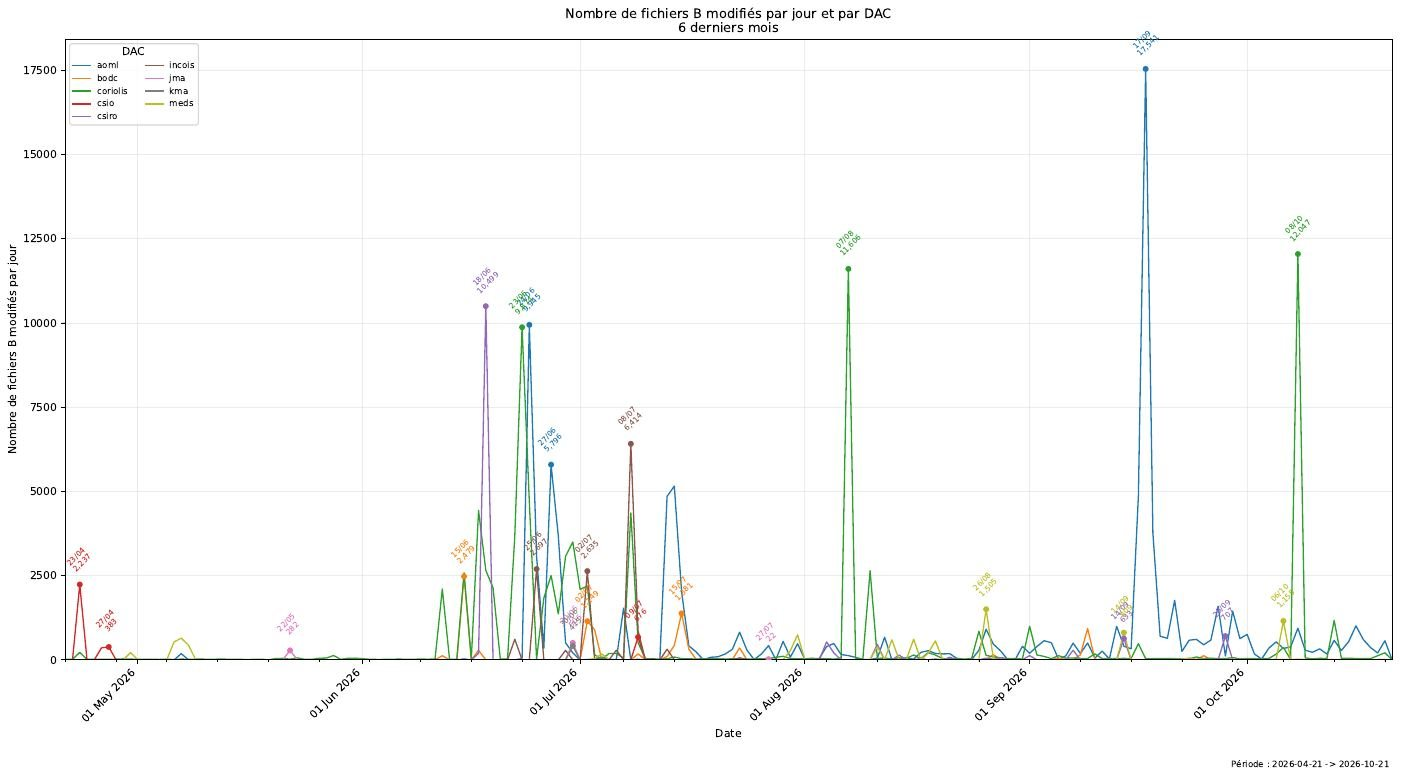
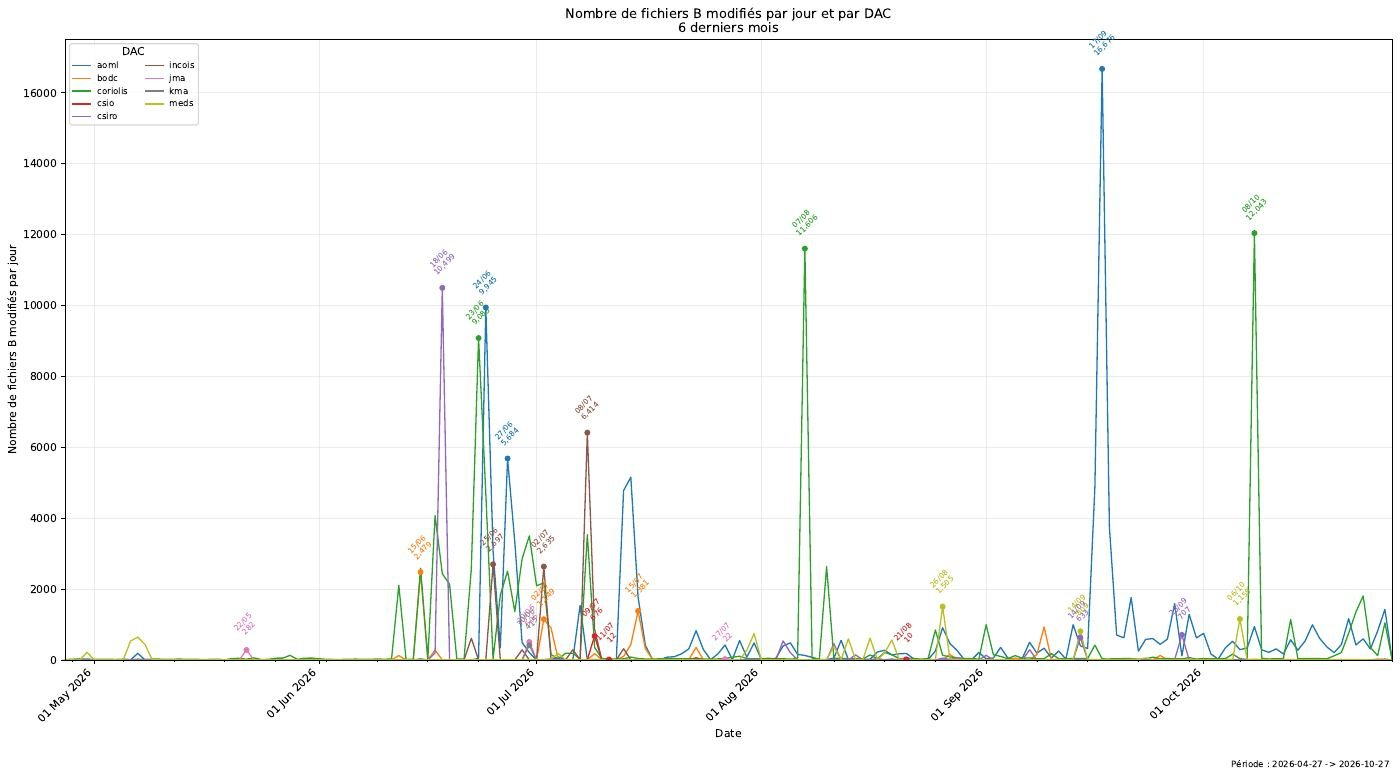
Met à jour la page des projets au 27 octobre
- Nouveau projet STAT_RATIOMETRIE : radiomètres comparés à un modèle
  par ciel clair, avec le mode et le P90 du rapport par canal.
- Étude métrique V2 : trois études avec leurs pages de graphiques, la
  synthèse du fichier du 27 octobre, une courbe du nombre de profils
  par fichier quotidien, et des figures du 27 octobre.
- SOCA CLIM Light Argo repasse « Actif » ; totaux et dates mis à jour.

Claude-Session: https://claude.ai/code/session_01E8CWNMVsvwy1KFHLaAn6PK

diff --git a/projets/index.html b/projets/index.html
@@ -86,6 +86,7 @@ h1 { font-family: var(--display); font-weight: 700; font-size: clamp(2rem, 5vw, 
 .etat.ok::before { background: var(--ok); }
 .etat.run::before { background: transparent; border: 2px solid var(--run); border-right-color: transparent; width: 11px; height: 11px; }
 .etat.archive::before { background: transparent; border: 2px solid var(--idle); }
+.etat.nouveau::before { background: var(--accent); box-shadow: 0 0 0 3px var(--accent-soft); }
 .legende-etat { margin: 0 0 40px; font-size: 0.88rem; color: var(--muted); display: flex; flex-wrap: wrap; gap: 4px 18px; }
 .legende-etat .etat { font-weight: 400; }
 
@@ -147,14 +148,14 @@ figcaption strong { color: var(--ink); font-weight: 600; }
 .dessin { width: 100%; min-height: 40px; }
 .dessin svg { display: block; width: 100%; height: auto; overflow: visible; }
 .dessin text { font-family: var(--sans); }
-.dessin .chiffre { font-family: var(--mono); font-size: 11.5px; fill: var(--muted); }
+.dessin .chiffre { font-family: var(--mono); font-size: 11.5px; fill: var(--muted); paint-order: stroke; stroke: var(--bg); stroke-width: 4px; stroke-linejoin: round; }
 .dessin .cat { font-size: 13px; fill: var(--ink); }
 .dessin .souscat { font-size: 11.5px; fill: var(--muted); }
 .dessin .axe { font-size: 11px; fill: var(--muted); font-family: var(--mono); }
 .dessin .grille { stroke: var(--line); stroke-width: 1; }
 .dessin .ref { stroke: var(--muted); stroke-width: 1.5; }
 .dessin .zone { fill: transparent; cursor: default; }
-.dessin path, .dessin text, .dessin line { pointer-events: none; }
+.dessin path, .dessin text, .dessin line, .dessin circle { pointer-events: none; }
 .dessin .zone:hover + .barre, .dessin .zone:focus + .barre { filter: brightness(1.15); }
 .dessin .zone:focus { outline: none; }
 .dessin .zone:focus-visible { stroke: var(--accent); stroke-width: 2; }
@@ -225,7 +226,7 @@ dialog#visio::backdrop { background: rgba(8, 18, 18, 0.72); }
 <header class="tete">
   <p class="surtitre">VM oao2022 · Mac · GitHub antoine250</p>
   <h1>Projets BGC-Argo</h1>
-  <p class="chapo">Huit études sur les capteurs bio-optiques des flotteurs BGC-Argo et du profileur CIDRE : chlorophylle, rétrodiffusion à 700 nm, lumière. <strong>1&#8239;046 pages de graphiques</strong> en tout ; chaque projet montre ses figures principales et renvoie vers sa page complète. État au 26 octobre 2026.</p>
+  <p class="chapo">Neuf études sur les capteurs bio-optiques des flotteurs BGC-Argo et du profileur CIDRE : chlorophylle, rétrodiffusion à 700 nm, lumière. <strong>1&#8239;189 pages de graphiques</strong> en tout ; chaque projet montre ses figures principales et renvoie vers sa page complète. État au 27 octobre 2026.</p>
 </header>
 
 <section aria-labelledby="titre-etat">
@@ -245,7 +246,7 @@ dialog#visio::backdrop { background: rgba(8, 18, 18, 0.72); }
     <li class="ligne">
       <div class="l-titre"><a href="#metrique">Étude métrique V2</a><span class="mesure">Suivi de la base, CHLA et BBP700 par capteur</span></div>
       <span class="etat ok">Actif</span>
-      <div class="l-meta"><span>VM · GitHub</span><span class="nb">404 pages</span><span>23 oct. 2026</span></div>
+      <div class="l-meta"><span>VM · GitHub</span><span class="nb">509 pages</span><span>27 oct. 2026</span></div>
     </li>
     <li class="ligne">
       <div class="l-titre"><a href="#oc5">CHLA / OC5 jour – nuit</a><span class="mesure">Flotteur contre satellite</span></div>
@@ -254,8 +255,13 @@ dialog#visio::backdrop { background: rgba(8, 18, 18, 0.72); }
     </li>
     <li class="ligne">
       <div class="l-titre"><a href="#soca">SOCA CLIM Light Argo</a><span class="mesure">Profils de lumière PAR et Ed</span></div>
-      <span class="etat run">En calcul</span>
+      <span class="etat ok">Actif</span>
       <div class="l-meta"><span>VM</span><span class="nb">106 graphiques</span><span>23 oct. 2026</span></div>
+    </li>
+    <li class="ligne">
+      <div class="l-titre"><a href="#ratiometrie">STAT_RATIOMETRIE</a><span class="mesure">Radiomètres face à un modèle par ciel clair</span></div>
+      <span class="etat nouveau">Nouveau</span>
+      <div class="l-meta"><span>Serveur</span><span class="nb">38 pages</span><span>27 oct. 2026</span></div>
     </li>
     <li class="groupe-ligne">Sur le Mac</li>
     <li class="ligne">
@@ -277,7 +283,7 @@ dialog#visio::backdrop { background: rgba(8, 18, 18, 0.72); }
   </ul>
   <p class="legende-etat">
     <span class="etat ok">Actif : session Claude ouverte sur la VM</span>
-    <span class="etat run">En calcul : une chaîne tourne</span>
+    <span class="etat nouveau">Nouveau : apparu depuis la mise à jour précédente</span>
     <span class="etat archive">Archivé : session terminée</span>
     <span>Date : dernière mise à jour des graphiques</span>
   </p>
@@ -285,7 +291,7 @@ dialog#visio::backdrop { background: rgba(8, 18, 18, 0.72); }
 
 <section class="groupe" aria-labelledby="g-vm">
   <h2 id="g-vm">Sur la VM oao2022</h2>
-  <p>Cinq sessions Claude tournent sur le serveur, chacune avec sa page de graphiques.</p>
+  <p>Six projets sur le serveur, chacun avec ses pages de graphiques.</p>
 
   <article class="projet" id="chla435" data-galerie="https://claude.ai/artifact/VeyUFmpXRrTi1sqrMFvcbu">
     <div class="p-texte">
@@ -359,31 +365,40 @@ dialog#visio::backdrop { background: rgba(8, 18, 18, 0.72); }
   <article class="projet" id="metrique" data-galerie="https://claude.ai/artifact/CQou6hnrZ72suKwQXZ53zz">
     <div class="p-texte">
       <p class="p-tags"><span class="etat ok">Actif</span><span class="ou">VM oao2022 · GitHub</span></p>
-      <h3>Étude métrique V2<span class="mesure">Suivi de la base et comparaison des capteurs CHLA et BBP700</span></h3>
-      <p class="p-desc">Deux volets. Le suivi quotidien de la base BGC-Argo : fichiers B modifiés par DAC, évolution des paramètres jour après jour, CHLA intégrée 0-150 m. La comparaison des capteurs : CHLA des ECO_2, ECO_3 et MCOMS face au satellite OC5, avec triple collocation, et BBP700 des FLBB, triplets et MCOMS face à la climatologie SOCA, en surface (0-10 m) et en profondeur (900-950 m).</p>
+      <h3>Étude métrique V2<span class="mesure">Le fichier métrique quotidien et les trois études qui le lisent</span></h3>
+      <p class="p-desc">Chaque nuit, l'étude produit un fichier de métriques sur tous les profils BGC-Argo (<code>/data3/ETUDE_METRIQUE_V2</code>). Depuis le 26 octobre, trois études le lisent, chacune avec sa page de graphiques : le suivi quotidien de la base (fichiers B modifiés par DAC, évolution des paramètres, CHLA intégrée 0-150 m) ; la CHLA des ECO_2, ECO_3 et MCOMS face au satellite OC5, avec triple collocation ; le BBP700 des FLBB, triplets et MCOMS face à la climatologie SOCA, en surface et à 900-950 m.</p>
       <dl class="chiffres">
-        <div><dt>Graphiques</dt><dd>26</dd></div>
-        <div><dt>Pages</dt><dd>404</dd></div>
-        <div><dt>Capteurs comparés</dt><dd>3 <small>par paramètre</small></dd></div>
-        <div><dt>Données</dt><dd>13 oct. <small>2026</small></dd></div>
+        <div><dt>Profils, fichier du 27 oct.</dt><dd>191&#8239;768</dd></div>
+        <div><dt>Flotteurs</dt><dd>1&#8239;522</dd></div>
+        <div><dt>Profils avec une CHLA OC5</dt><dd>159&#8239;589</dd></div>
+        <div><dt>Graphiques</dt><dd>26 <small>509 pages</small></dd></div>
       </dl>
+      <div class="graphe" id="g-metrique">
+        <h4>Profils dans le fichier métrique quotidien</h4>
+        <p class="sous">136 fichiers, du 28 mai au 27 octobre 2026 ; les segments droits couvrent les jours sans fichier.</p>
+        <div class="dessin"></div>
+      </div>
+      <p class="p-note">Le 27 octobre, le nombre de profils avec une CHLA OC5 est passé de 143&#8239;500 à 159&#8239;589.</p>
       <div class="liens">
-        <a class="bouton principal" href="https://claude.ai/artifact/CQou6hnrZ72suKwQXZ53zz" target="_blank" rel="noopener">Ouvrir les 26 graphiques</a>
+        <a class="bouton principal" href="https://claude.ai/artifact/5mcDQY8bPgqWs46afYyF8H" target="_blank" rel="noopener">Synthèse du fichier</a>
+        <a class="bouton" href="https://claude.ai/artifact/Fh22XT616xihE1MCWTW6Rv" target="_blank" rel="noopener">Suivi de la base · 62 p.</a>
+        <a class="bouton" href="https://claude.ai/artifact/PJrDCLZt8fciG6NTXHJxTx" target="_blank" rel="noopener">CHLA / OC5 · 154 p.</a>
+        <a class="bouton" href="https://claude.ai/artifact/QRzdbm9R412nJHgWJRAEhP" target="_blank" rel="noopener">BBP700 / SOCA · 293 p.</a>
         <a class="bouton" href="https://github.com/antoine250/ETUDE_METRIQUE_V2" target="_blank" rel="noopener">Dépôt GitHub</a>
       </div>
     </div>
     <div class="p-figures">
       <figure>
-        <button class="vignette" type="button" data-note="Facteur d'erreur de chaque capteur (ECO_2, ECO_3, MCOMS), année par année et en cumulé. Plus proche de 1 : meilleure précision ; pointillé : valeur idéale. CSV du 13 octobre 2026."><img src="img/metrique-1.jpg" width="1400" height="728" alt="Triple collocation des trois capteurs de chlorophylle" loading="lazy"></button>
+        <button class="vignette" type="button" data-note="Facteur d'erreur de chaque capteur (ECO_2, ECO_3, MCOMS), année par année et en cumulé. Plus proche de 1 : meilleure précision ; pointillé : valeur idéale. CSV du 27 octobre 2026."><img src="img/metrique-1.jpg" width="1400" height="728" alt="Triple collocation des trois capteurs de chlorophylle" loading="lazy"></button>
         <figcaption><strong>Triple collocation ECO_2 / ECO_3 / MCOMS</strong></figcaption>
       </figure>
       <div class="petites">
         <figure>
-          <button class="vignette" type="button" data-note="Nombre de fichiers B modifiés par jour et par DAC, sur les 6 mois jusqu'au 21 octobre 2026."><img src="img/metrique-2.jpg" width="1401" height="778" alt="Nombre de fichiers B modifiés par jour et par DAC" loading="lazy"></button>
+          <button class="vignette" type="button" data-note="Nombre de fichiers B modifiés par jour et par DAC, sur les 6 mois jusqu'au 27 octobre 2026."><img src="img/metrique-2.jpg" width="1400" height="778" alt="Nombre de fichiers B modifiés par jour et par DAC" loading="lazy"></button>
           <figcaption>Fichiers B modifiés par DAC</figcaption>
         </figure>
         <figure>
-          <button class="vignette" type="button" data-note="Localisation des matchups BBP700 médiane 900-950 m, dans les zones et périodes communes aux FLBB, triplets et MCOMS."><img src="img/metrique-3.jpg" width="1400" height="850" alt="Carte des matchups BBP700 entre 900 et 950 m" loading="lazy"></button>
+          <button class="vignette" type="button" data-note="Localisation des matchups BBP700 médiane 900-950 m, dans les zones et périodes communes aux FLBB, triplets et MCOMS. CSV du 27 octobre 2026."><img src="img/metrique-3.jpg" width="1400" height="850" alt="Carte des matchups BBP700 entre 900 et 950 m" loading="lazy"></button>
           <figcaption>Matchups BBP700 à 900-950 m</figcaption>
         </figure>
       </div>
@@ -423,7 +438,7 @@ dialog#visio::backdrop { background: rgba(8, 18, 18, 0.72); }
 
   <article class="projet" id="soca" data-galerie="https://claude.ai/artifact/SubBQHCvpD9kHn8tr6vQVr">
     <div class="p-texte">
-      <p class="p-tags"><span class="etat run">En calcul</span><span class="ou">VM oao2022</span></p>
+      <p class="p-tags"><span class="etat ok">Actif</span><span class="ou">VM oao2022</span></p>
       <h3>SOCA CLIM Light Argo<span class="mesure">Profils de lumière PAR, Ed380, Ed412 et Ed490</span></h3>
       <p class="p-desc">Chaîne quotidienne sur la VM (<code>run_pipeline.sh</code>, lancée par cron chaque jour à 12 h). Pour chaque profil BGC-Argo avec chlorophylle, elle produit un profil de lumière climatologique (CLIM) et un profil SOCA, à comparer avec ce que mesure le flotteur. Les PDF par flotteur sont servis par le site web de la VM, dans <code>/var/www/html/bioargo/</code>.</p>
       <dl class="chiffres">
@@ -432,7 +447,7 @@ dialog#visio::backdrop { background: rgba(8, 18, 18, 0.72); }
         <div><dt>Avec un profil SOCA rempli</dt><dd>108&#8239;142</dd></div>
         <div><dt>Flotteurs</dt><dd>1&#8239;526</dd></div>
       </dl>
-      <p class="p-note">Pas de SOCA après février 2026 : il n'y a plus de matchups ACRI. La chaîne a été relancée le 26 octobre à 15 h 19 ; la session doit donner le nouveau nombre de profils SOCA. Dernier run complet : 4 h 01.</p>
+      <p class="p-note">Pas de SOCA après février 2026 : il n'y a plus de matchups ACRI. Dernier run complet : 4 h 01, le 23 octobre.</p>
       <div class="liens">
         <a class="bouton principal" href="https://claude.ai/artifact/SubBQHCvpD9kHn8tr6vQVr" target="_blank" rel="noopener">Ouvrir les 106 graphiques</a>
         <a class="bouton" href="https://claude.ai/artifact/QTPrF1Qn6P3u3YFFb4jbF4" target="_blank" rel="noopener">Tableau de bord</a>
@@ -451,6 +466,43 @@ dialog#visio::backdrop { background: rgba(8, 18, 18, 0.72); }
         <figure>
           <button class="vignette" type="button" data-note="Premier cycle du flotteur 1902493. À gauche : mesuré par le flotteur (vert), climatologie (rouge), SOCA (bleu) ; à droite : climatologie et SOCA à midi local."><img src="img/soca-3.jpg" width="864" height="1152" alt="Profils de lumière du flotteur 1902493, cycle 1" loading="lazy"></button>
           <figcaption>WMO 1902493, cycle 1</figcaption>
+        </figure>
+      </div>
+    </div>
+  </article>
+
+  <article class="projet" id="ratiometrie" data-galerie="https://claude.ai/artifact/HyYfzFXPcbYqjjewMZZPCx">
+    <div class="p-texte">
+      <p class="p-tags"><span class="etat nouveau">Nouveau</span><span class="ou">Serveur · /data1/GDAC</span></p>
+      <h3>STAT_RATIOMETRIE<span class="mesure">Les radiomètres des flotteurs face à un modèle par ciel clair</span></h3>
+      <p class="p-desc">Compare l'éclairement descendant juste sous la surface, Ed(0-), mesuré par les radiomètres des flotteurs BGC-Argo, à un modèle par ciel clair (SPCTRL2) au même instant et au même endroit. Les nuages ne peuvent que baisser le rapport mesuré / modèle : par ciel clair, il vaut environ 1, et l'enveloppe haute (P90) représente ces profils.</p>
+      <dl class="chiffres">
+        <div><dt>Flotteurs avec radiométrie</dt><dd>582</dd></div>
+        <div><dt>Profils de jour comparés</dt><dd>54&#8239;067</dd></div>
+        <div><dt>P90 à 490 nm</dt><dd>1,11</dd></div>
+        <div><dt>Flotteurs à problème</dt><dd>30</dd></div>
+      </dl>
+      <div class="graphe" id="g-ratiometrie">
+        <h4>Rapport mesuré / modèle par canal</h4>
+        <p class="sous">Valeurs brutes. Le trait vertical marque 1 : le modèle. ED665 et ED670 sont laissés de côté : trop peu de profils.</p>
+        <div class="dessin"></div>
+      </div>
+      <p class="p-note">Les canaux Ed atteignent le modèle par ciel clair ; le PAR reste environ 15&nbsp;% en dessous. Pour 17 flotteurs MEDS, le PAR est 100 à 1&#8239;800 fois trop faible, à cause du calcul du DAC. 26 flotteurs montrent une baisse durable de l'enveloppe haute, dont 14 sur plusieurs canaux (biofouling probable). Extraction du 27 octobre 2026.</p>
+      <div class="liens"><a class="bouton principal" href="https://claude.ai/artifact/HyYfzFXPcbYqjjewMZZPCx" target="_blank" rel="noopener">Ouvrir la page des graphiques</a></div>
+    </div>
+    <div class="p-figures">
+      <figure>
+        <button class="vignette" type="button" data-note="Un histogramme par canal, échelle logarithmique. Le pic juste à 1 vient des profils par ciel clair, la traîne vers la gauche des profils nuageux. Bleu : brut, orange : ajusté. Le pic à 0,77 du PAR montre qu'il reste sous le modèle."><img src="img/ratio-1.jpg" width="1600" height="814" alt="Histogrammes du rapport mesuré sur modèle pour chaque canal" loading="lazy"></button>
+        <figcaption><strong>Distribution du rapport par canal</strong> · 27 octobre 2026</figcaption>
+      </figure>
+      <div class="petites">
+        <figure>
+          <button class="vignette" type="button" data-note="Couleur : nombre de profils. Trait plein : P90, tirets : médiane, par tranche de 5°. Le P90 reste plat de 0 à 80° : le modèle suit bien la hauteur du soleil. La médiane baisse quand le soleil est bas : plus de nuages aux hautes latitudes."><img src="img/ratio-2.jpg" width="1600" height="814" alt="Rapport mesuré sur modèle selon l'angle zénithal du soleil" loading="lazy"></button>
+          <figcaption>Selon l'angle zénithal du soleil</figcaption>
+        </figure>
+        <figure>
+          <button class="vignette" type="button" data-note="P90 du rapport brut de chaque flotteur, à sa position moyenne. Gris : modèle atteint. À 490 nm, un peu au-dessus sous les tropiques (rouge), en dessous aux hautes latitudes (bleu), où le ciel est rarement clair."><img src="img/ratio-3.jpg" width="1600" height="523" alt="Carte de l'enveloppe haute du rapport par flotteur, 490 nm et PAR" loading="lazy"></button>
+          <figcaption>Enveloppe haute par flotteur</figcaption>
         </figure>
       </div>
     </div>
@@ -581,7 +633,7 @@ dialog#visio::backdrop { background: rgba(8, 18, 18, 0.72); }
 </section>
 
 <footer class="pied">
-  <p>Page faite par Claude le 26 octobre 2026 à partir des pages de graphiques de chaque session et des dépôts GitHub. Les figures sont des copies réduites ; les originaux et toutes les autres pages sont dans les galeries.</p>
+  <p>Page faite par Claude le 26 octobre 2026 et mise à jour le 27 octobre 2026, à partir des pages de graphiques de chaque session et des dépôts GitHub. Les figures sont des copies réduites ; les originaux et toutes les autres pages sont dans les galeries.</p>
   <p>Les liens claude.ai s'ouvrent avec ton compte Claude. Source de la page : dépôt <code>antoine250/read_DOI</code>, dossier <code>projets/</code>.</p>
 </footer>
 
@@ -768,6 +820,100 @@ dialog#visio::backdrop { background: rgba(8, 18, 18, 0.72); }
   });
   tableau(gE, ["Bassin", "Rapport, ECO_FLBB", "Profils", "Rapport, ECO_FLBB2/CD/FL", "Profils"],
     BASSINS.map(function (b, i) { return [b, fr(FAM[0].r[i], 3), fr(FAM[0].n[i], 0), fr(FAM[1].r[i], 3), fr(FAM[1].n[i], 0)]; }));
+
+  // Courbe dans le temps : une série, un réticule vertical suit le pointeur (ou les flèches au clavier)
+  function courbe(conteneur, cfg) {
+    function dessiner() {
+      var W = Math.max(280, conteneur.clientWidth), H = 190, g = 44, d = 14, h = 14, b = 24;
+      var P = cfg.points, t0 = P[0].t, t1 = P[P.length - 1].t;
+      var x = function (t) { return g + (W - g - d) * (t - t0) / (t1 - t0); };
+      var y = function (v) { return h + (H - h - b) * (1 - (v - cfg.min) / (cfg.max - cfg.min)); };
+      var svg = el("svg", { viewBox: "0 0 " + W + " " + H, width: "100%", role: "img", "aria-label": cfg.titre });
+      cfg.yTicks.forEach(function (v) {
+        el("line", { x1: g, x2: W - d, y1: y(v), y2: y(v), "class": "grille" }, svg);
+        var t = el("text", { x: g - 6, y: y(v) + 4, "text-anchor": "end", "class": "axe" }, svg); t.textContent = cfg.formatY(v);
+      });
+      cfg.xTicks.forEach(function (k) {
+        var t = el("text", { x: x(k.t), y: H - 6, "text-anchor": "middle", "class": "axe" }, svg); t.textContent = k.label;
+      });
+      var trace = P.map(function (p, i) { return (i ? "L" : "M") + x(p.t).toFixed(1) + "," + y(p.v).toFixed(1); }).join("");
+      el("path", { d: trace + "L" + x(t1) + "," + (H - b) + "L" + x(t0) + "," + (H - b) + "Z", style: "fill:" + cfg.couleur + ";fill-opacity:0.1" }, svg);
+      el("path", { d: trace, style: "fill:none;stroke:" + cfg.couleur + ";stroke-width:2;stroke-linejoin:round;stroke-linecap:round" }, svg);
+      var der = P[P.length - 1];
+      el("circle", { cx: x(der.t), cy: y(der.v), r: 4.5, style: "fill:" + cfg.couleur + ";stroke:var(--surface);stroke-width:2" }, svg);
+      var fin = el("text", { x: x(der.t) - 8, y: y(der.v) - 8, "text-anchor": "end", "class": "chiffre" }, svg);
+      fin.textContent = fr(der.v, 0);
+      var reticule = el("line", { x1: 0, x2: 0, y1: h, y2: H - b, "class": "ref", visibility: "hidden" }, svg);
+      var point = el("circle", { cx: 0, cy: 0, r: 4, style: "fill:" + cfg.couleur + ";stroke:var(--surface);stroke-width:2", visibility: "hidden" }, svg);
+      var zone = el("rect", { x: g, y: 0, width: W - g - d, height: H - b, "class": "zone", tabindex: "0", "aria-label": cfg.titre + ", flèches gauche et droite pour parcourir" }, svg);
+      var courant = P.length - 1;
+      function montrer(i, cx, cy) {
+        var p = P[i]; courant = i;
+        reticule.setAttribute("x1", x(p.t)); reticule.setAttribute("x2", x(p.t)); reticule.setAttribute("visibility", "visible");
+        point.setAttribute("cx", x(p.t)); point.setAttribute("cy", y(p.v)); point.setAttribute("visibility", "visible");
+        var info = cfg.bulle(p); montrerBulle(cx, cy, info[0], info[1]);
+      }
+      function cacher() { reticule.setAttribute("visibility", "hidden"); point.setAttribute("visibility", "hidden"); cacherBulle(); }
+      function ecran(i) { var r = svg.getBoundingClientRect(); return [r.left + x(P[i].t) * r.width / W, r.top + y(P[i].v) * r.height / H]; }
+      zone.addEventListener("pointermove", function (e) {
+        var r = svg.getBoundingClientRect(), tx = t0 + (t1 - t0) * ((e.clientX - r.left) * W / r.width - g) / (W - g - d);
+        var k = 0; P.forEach(function (p, i) { if (Math.abs(p.t - tx) < Math.abs(P[k].t - tx)) k = i; });
+        montrer(k, e.clientX, e.clientY);
+      });
+      zone.addEventListener("pointerleave", cacher);
+      zone.addEventListener("blur", cacher);
+      zone.addEventListener("focus", function () { var c = ecran(courant); montrer(courant, c[0], c[1]); });
+      zone.addEventListener("keydown", function (e) {
+        if (e.key !== "ArrowLeft" && e.key !== "ArrowRight") return;
+        e.preventDefault();
+        var i = Math.max(0, Math.min(P.length - 1, courant + (e.key === "ArrowRight" ? 1 : -1)));
+        var c = ecran(i); montrer(i, c[0], c[1]);
+      });
+      conteneur.replaceChildren(svg);
+    }
+    dessiner();
+    var largeur = conteneur.clientWidth;
+    if (window.ResizeObserver) new ResizeObserver(function () {
+      if (Math.abs(conteneur.clientWidth - largeur) > 4) { largeur = conteneur.clientWidth; dessiner(); }
+    }).observe(conteneur);
+  }
+
+  // Étude métrique V2 : profils dans chaque fichier métrique quotidien
+  var HISTO = [["2026-05-28",179961,1448],["2026-05-29",180039,1449],["2026-05-30",180140,1451],["2026-05-31",180218,1452],["2026-06-01",180291,1452],["2026-06-02",180356,1452],["2026-06-03",180456,1453],["2026-06-04",180553,1455],["2026-06-08",180846,1456],["2026-06-10",180993,1456],["2026-06-11",181050,1456],["2026-06-12",181677,1456],["2026-06-13",181508,1457],["2026-06-14",181590,1457],["2026-06-15",181627,1457],["2026-06-16",181722,1457],["2026-06-17",181804,1457],["2026-06-18",181913,1457],["2026-06-19",181061,1456],["2026-06-20",180641,1457],["2026-06-21",181398,1459],["2026-06-22",181939,1459],["2026-06-23",182044,1460],["2026-06-24",181949,1461],["2026-06-25",181499,1460],["2026-06-26",182256,1460],["2026-06-27",181983,1460],["2026-06-28",180519,1456],["2026-06-29",181439,1459],["2026-06-30",181711,1458],["2026-07-01",182619,1461],["2026-07-02",182816,1464],["2026-07-03",182865,1464],["2026-07-04",183010,1467],["2026-07-05",183084,1467],["2026-07-06",183159,1468],["2026-07-07",182982,1467],["2026-07-08",182542,1468],["2026-07-09",183351,1471],["2026-07-10",183267,1470],["2026-07-11",183524,1472],["2026-07-12",183587,1473],["2026-07-13",183606,1473],["2026-07-14",183581,1473],["2026-07-15",182907,1471],["2026-07-16",183025,1474],["2026-07-17",183493,1475],["2026-07-18",184544,1480],["2026-07-19",184613,1480],["2026-07-20",184668,1480],["2026-07-21",184729,1480],["2026-07-22",184812,1480],["2026-07-23",184869,1480],["2026-07-24",184776,1480],["2026-07-25",185023,1480],["2026-07-26",185096,1480],["2026-07-27",185162,1480],["2026-07-28",185246,1480],["2026-07-29",185311,1480],["2026-07-30",185377,1481],["2026-07-31",185512,1484],["2026-08-01",185593,1485],["2026-08-02",185665,1485],["2026-08-03",185723,1485],["2026-08-04",185744,1484],["2026-08-05",185893,1485],["2026-08-06",185902,1479],["2026-08-08",185993,1485],["2026-08-09",186018,1485],["2026-08-10",186094,1485],["2026-08-11",186078,1485],["2026-08-13",186256,1485],["2026-08-14",186359,1486],["2026-08-15",186276,1486],["2026-08-16",186489,1486],["2026-08-17",186596,1486],["2026-08-18",186548,1487],["2026-08-19",186722,1487],["2026-08-20",186803,1487],["2026-08-21",186862,1488],["2026-08-22",186964,1487],["2026-08-23",187016,1488],["2026-08-24",187089,1488],["2026-08-25",187151,1488],["2026-08-26",186619,1488],["2026-08-27",187316,1491],["2026-08-28",187450,1492],["2026-08-29",187490,1488],["2026-08-30",187575,1492],["2026-08-31",187711,1492],["2026-09-01",187712,1492],["2026-09-02",187687,1492],["2026-09-04",187920,1492],["2026-09-05",187999,1492],["2026-09-06",188075,1492],["2026-09-07",188118,1492],["2026-09-08",188139,1493],["2026-09-09",188281,1494],["2026-09-11",188414,1499],["2026-09-12",188470,1499],["2026-09-13",188551,1500],["2026-09-14",188621,1500],["2026-09-15",188558,1500],["2026-09-16",188761,1501],["2026-09-17",188861,1503],["2026-09-18",189499,1506],["2026-09-19",189494,1506],["2026-09-20",189630,1508],["2026-09-21",189705,1510],["2026-09-22",189778,1510],["2026-09-23",189859,1510],["2026-09-25",190024,1512],["2026-09-26",190094,1513],["2026-09-27",190176,1513],["2026-09-28",190250,1514],["2026-09-29",190198,1514],["2026-09-30",190268,1514],["2026-10-01",190368,1514],["2026-10-02",190509,1514],["2026-10-03",190577,1514],["2026-10-04",190657,1514],["2026-10-05",190652,1515],["2026-10-06",190792,1515],["2026-10-07",190886,1517],["2026-10-08",190982,1518],["2026-10-09",189033,1497],["2026-10-10",190529,1514],["2026-10-11",190599,1513],["2026-10-12",190670,1514],["2026-10-13",190737,1514],["2026-10-22",191478,1520],["2026-10-23",191314,1519],["2026-10-24",191066,1519],["2026-10-25",191621,1521],["2026-10-26",191687,1521],["2026-10-27",191768,1522]];
+  function jour(iso) { return Date.UTC(+iso.slice(0, 4), +iso.slice(5, 7) - 1, +iso.slice(8, 10)); }
+  function dateFr(t) { return new Date(t).toLocaleDateString("fr-FR", { day: "numeric", month: "short", year: "numeric", timeZone: "UTC" }); }
+  var gM = document.getElementById("g-metrique");
+  courbe(gM.querySelector(".dessin"), {
+    titre: "Profils dans le fichier métrique quotidien",
+    points: HISTO.map(function (r) { return { t: jour(r[0]), v: r[1], flotteurs: r[2] }; }),
+    min: 178000, max: 194000, yTicks: [180000, 185000, 190000],
+    formatY: function (v) { return fr(v / 1000, 0) + " k"; },
+    xTicks: [["2026-06-01", "juin"], ["2026-07-01", "juil."], ["2026-08-01", "août"], ["2026-09-01", "sept."], ["2026-10-01", "oct."]]
+      .map(function (m) { return { t: jour(m[0]), label: m[1] }; }),
+    couleur: jeton("--accent"),
+    bulle: function (p) { return [fr(p.v, 0) + " profils", "Fichier du " + dateFr(p.t) + " · " + fr(p.flotteurs, 0) + " flotteurs"]; }
+  });
+  tableau(gM, ["Fichier", "Profils", "Flotteurs"], HISTO.map(function (r) { return [r[0], fr(r[1], 0), fr(r[2], 0)]; }));
+
+  // STAT_RATIOMETRIE : mode et P90 du rapport mesuré / modèle (valeurs brutes, extraction du 27 octobre 2026)
+  var CANAUX = [
+    ["Ed 380 nm", 50120, 494, 0.92, 1.06], ["Ed 412 nm", 48152, 384, 1.04, 1.17], ["Ed 443 nm", 4842, 150, 1.01, 1.13],
+    ["Ed 490 nm", 49520, 518, 0.99, 1.11], ["Ed 555 nm", 2967, 136, 0.94, 1.08], ["PAR", 50140, 382, 0.77, 0.88]
+  ];
+  var STATS = [{ nom: "Mode", couleur: jeton("--s1") }, { nom: "P90 (enveloppe haute)", couleur: jeton("--s2") }];
+  var gRa = document.getElementById("g-ratiometrie");
+  legende(gRa, STATS);
+  barres(gRa.querySelector(".dessin"), {
+    titre: "Rapport mesuré / modèle par canal",
+    lignes: CANAUX.map(function (c) { return { nom: c[0], sous: fr(c[1], 0) + " profils" }; }),
+    series: STATS, ref: 1,
+    valeurs: CANAUX.map(function (c) { return [c[3], c[4]]; }),
+    max: 1.25, pas: 0.25,
+    format: function (v, axe) { return fr(v, 2); },
+    bulle: function (i, k) { return [fr(CANAUX[i][3 + k], 2), CANAUX[i][0] + " · " + STATS[k].nom + " · " + fr(CANAUX[i][1], 0) + " profils, " + CANAUX[i][2] + " flotteurs"]; }
+  });
+  tableau(gRa, ["Canal", "Profils", "Flotteurs", "Mode", "P90"],
+    CANAUX.map(function (c) { return [c[0], fr(c[1], 0), String(c[2]), fr(c[3], 2), fr(c[4], 2)]; }));
 
   // Visionneuse : agrandit une figure, avec la figure précédente / suivante du même projet
   var visio = document.getElementById("visio"), vImg = document.getElementById("v-img");
